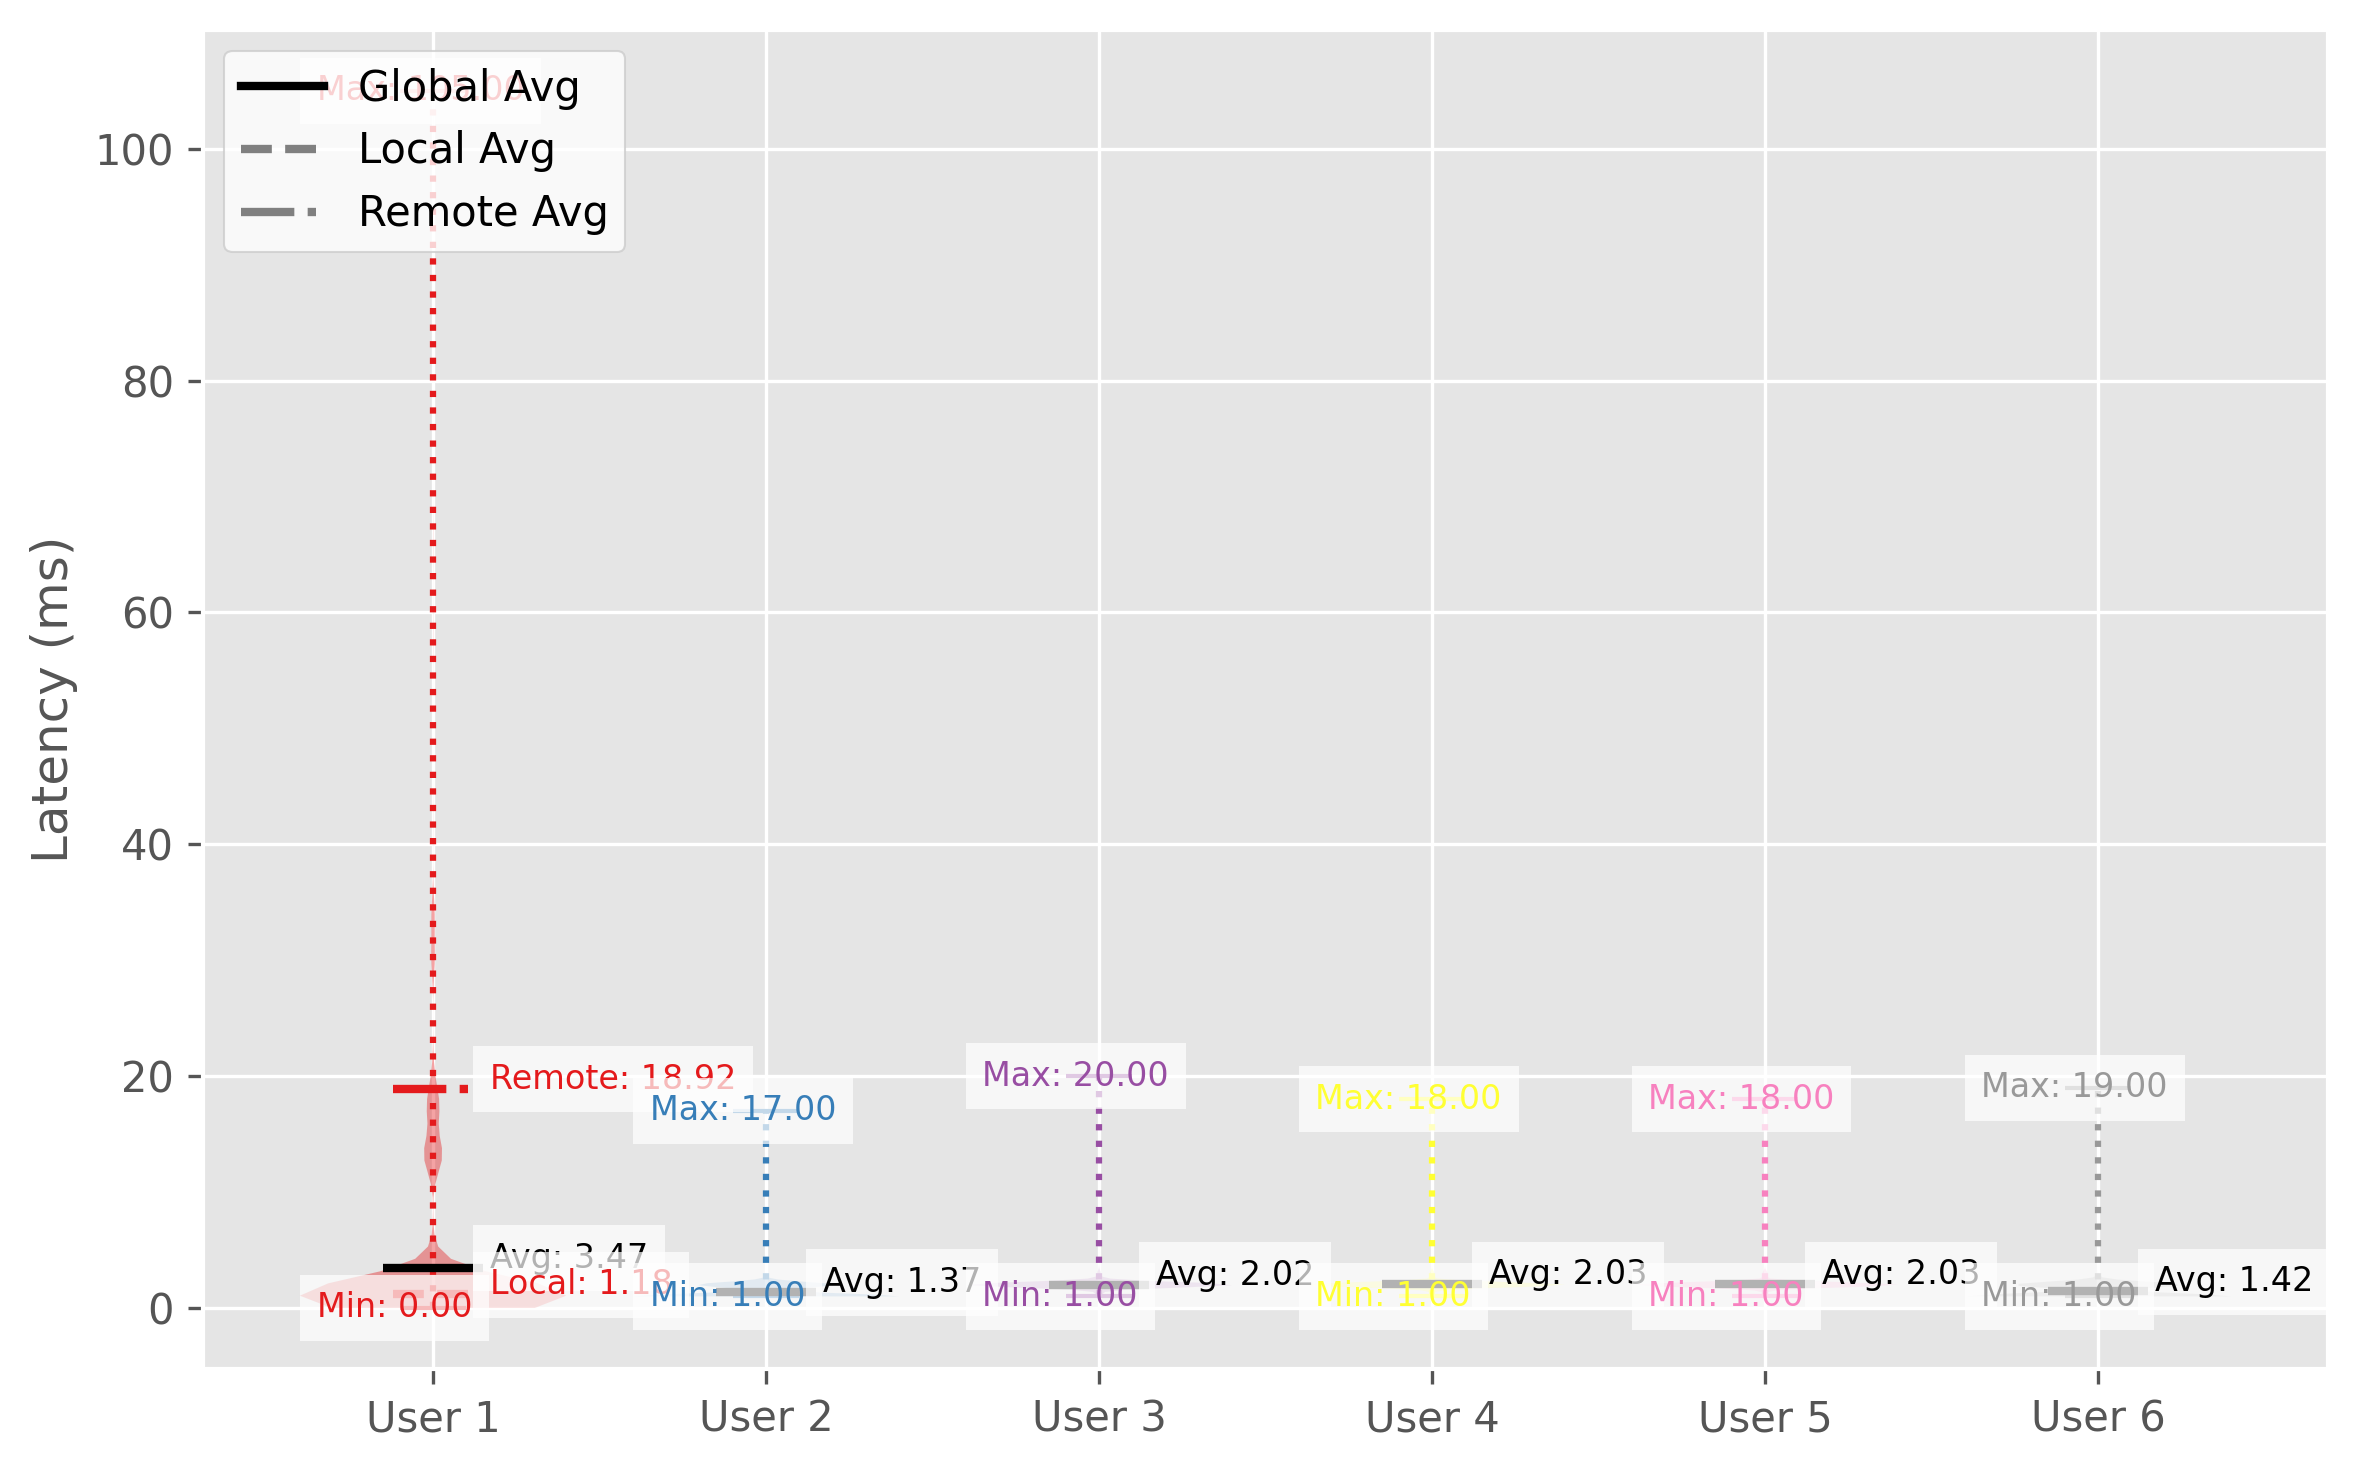
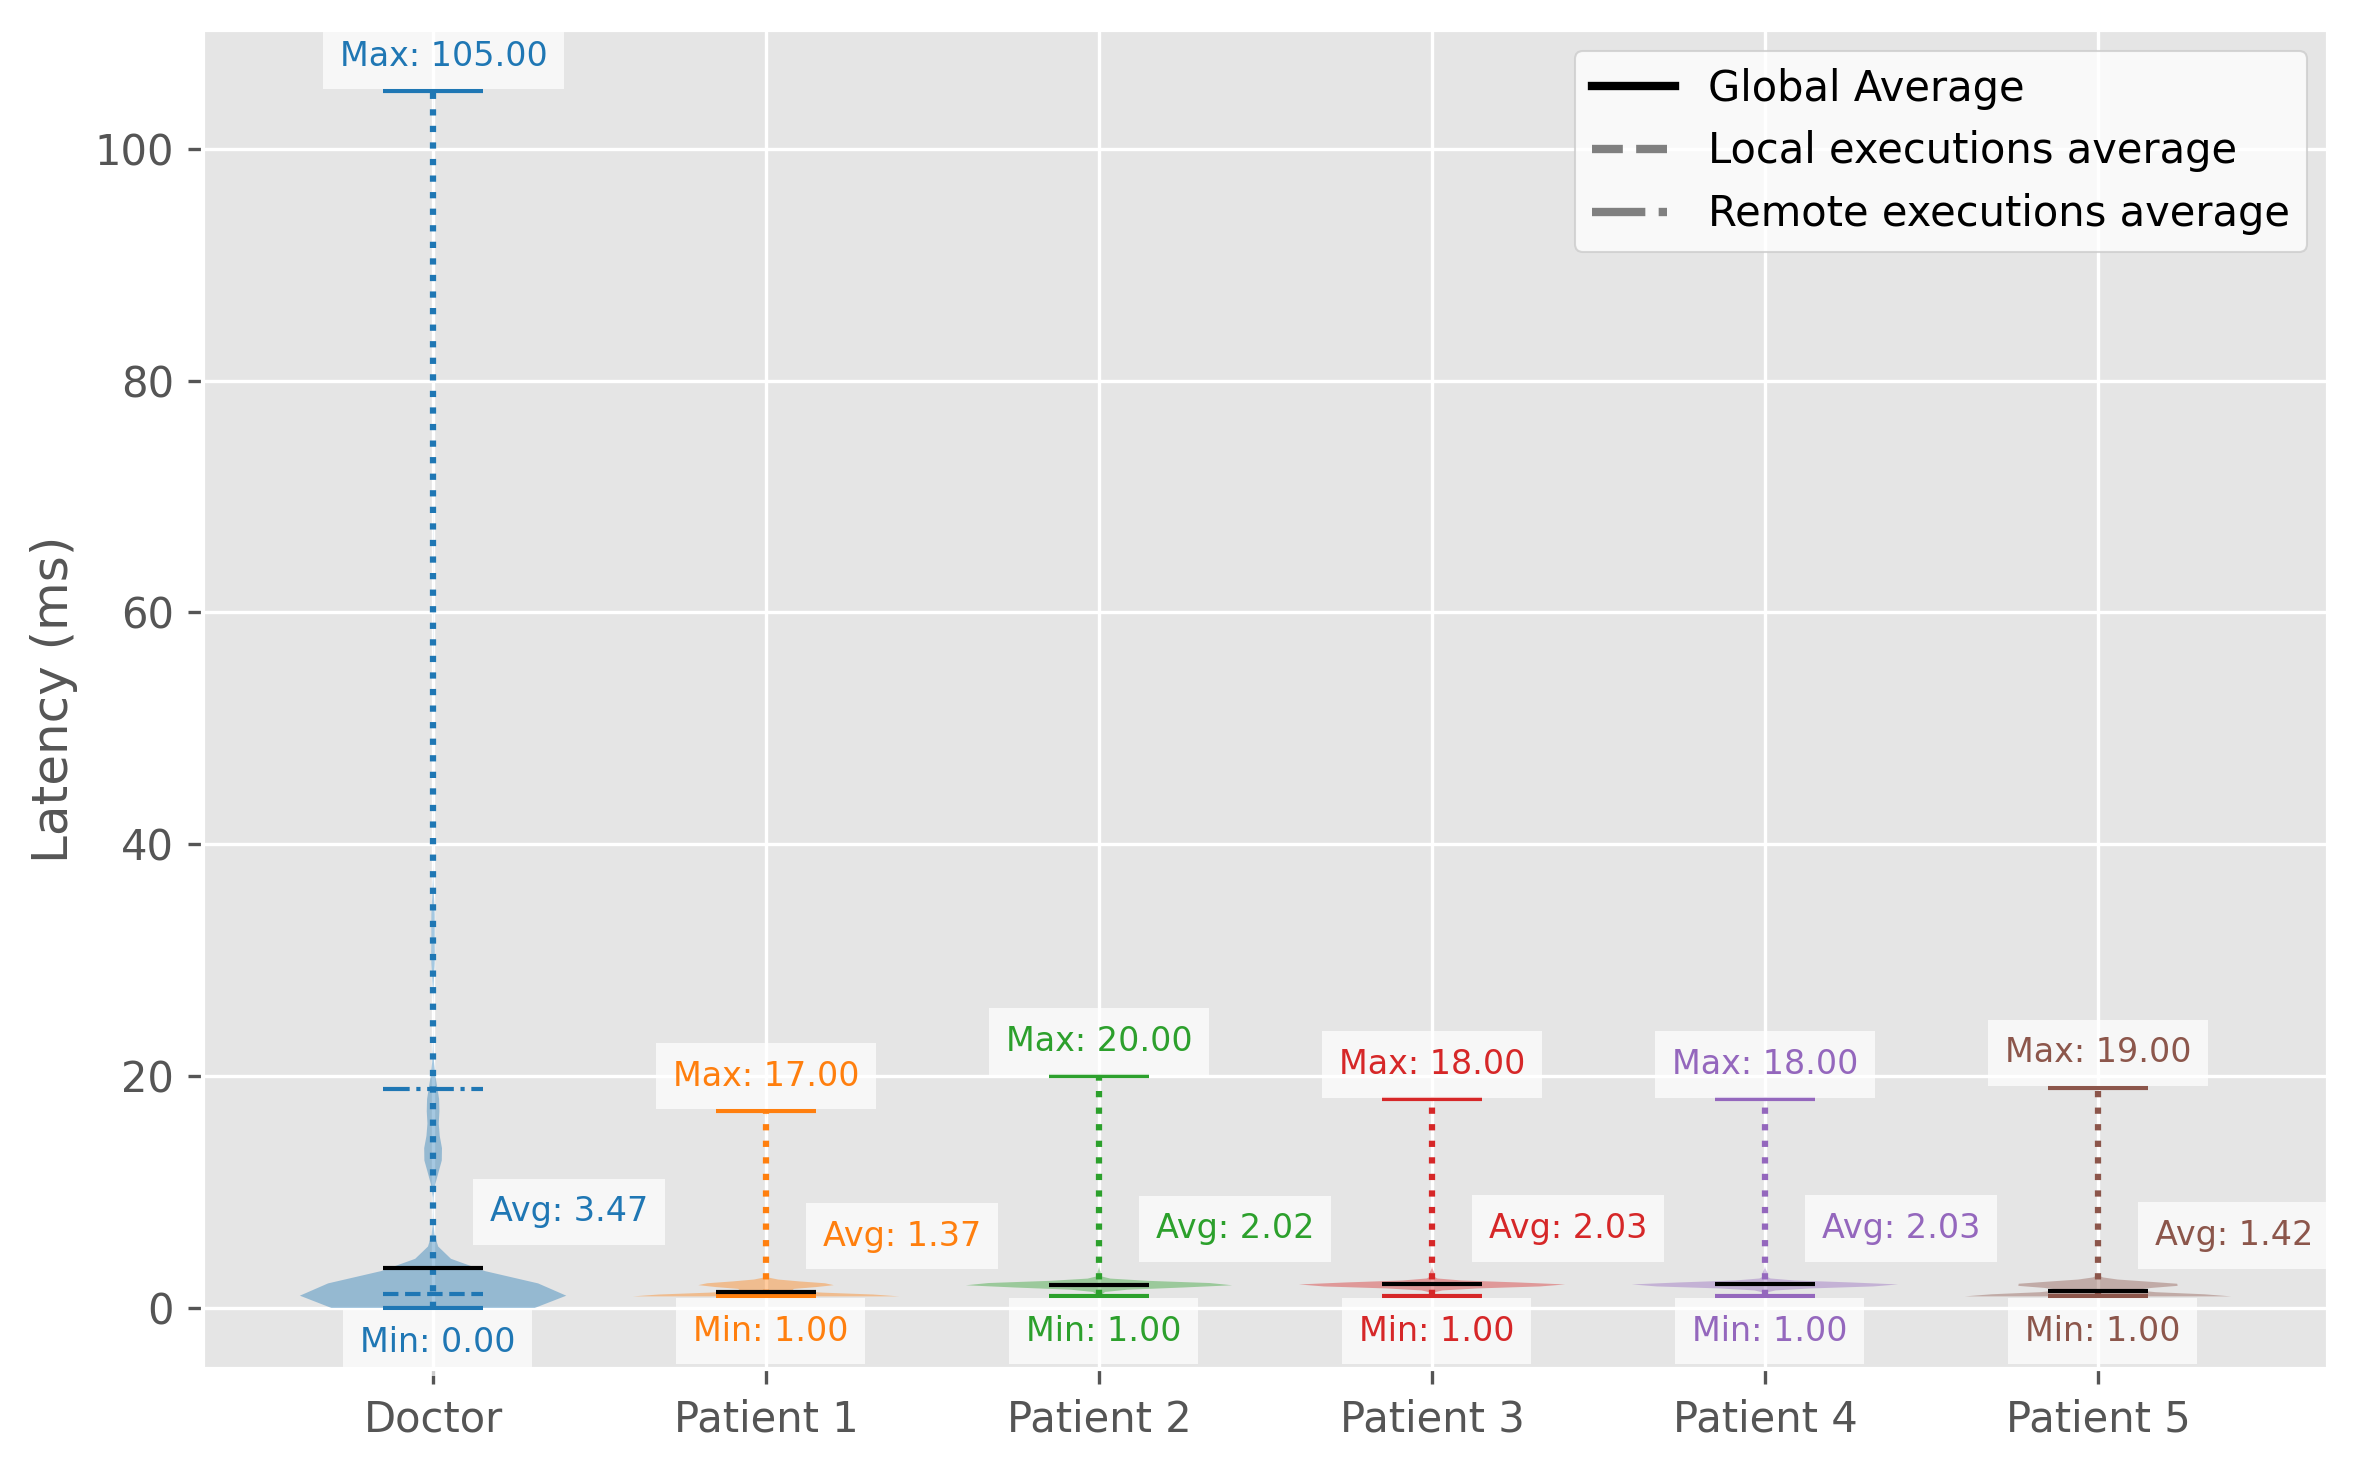
Update latency violin

diff --git a/ermes_benchmark/convergence_test/code/plots/latency.py b/ermes_benchmark/convergence_test/code/plots/latency.py
@@ -20,7 +20,8 @@ def local_vs_remote_latency(dfs):
         total_width = 0.8
         single_bar_width = total_width / 1
 
-        colors = plt.cm.Set1(np.linspace(0, 1, max(n_files, 3)))
+        cmap = plt.get_cmap('tab10')
+        colors = [cmap(i % 10) for i in range(n_files)]
         file_labels = [f'User {i + 1}' for i in range(n_files)]
 
         all_durations = []
@@ -174,7 +175,8 @@ def local_vs_remote_latency_violin_old(dfs):
 
     n_files = len(dfs)
     x = np.arange(n_files)
-    colors = plt.cm.Set1(np.linspace(0, 1, max(n_files, 3)))
+    cmap = plt.get_cmap('tab10')
+    colors = [cmap(i % 10) for i in range(n_files)]
     file_labels = [f'User {i + 1}' for i in range(n_files)]
 
     data_list = []
@@ -271,8 +273,12 @@ def local_vs_remote_latency_violin(dfs, scenario):
 
     n_files = len(dfs)
     x = np.arange(n_files)
-    colors = plt.cm.Set1(np.linspace(0, 1, max(n_files, 3)))
+    cmap = plt.get_cmap('tab10')
+    colors = [cmap(i % 10) for i in range(n_files)]
+
     file_labels = [f'User {i + 1}' for i in range(n_files)]
+    if scenario == "bottom_up":
+        file_labels = ["Doctor", "Patient 1", "Patient 2", "Patient 3", "Patient 4", "Patient 5"]
     if scenario == "full_traversal":
         file_labels = ["Patient", "Doctor"]
 
@@ -307,47 +313,82 @@ def local_vs_remote_latency_violin(dfs, scenario):
         b.set_facecolor(colors[i])
         b.set_alpha(0.4)
 
-    for i, stat in enumerate(stats):
-        current_x = x[i]
-        user_color = colors[i]
+    if len(stats) == 2:
+        for i, stat in enumerate(stats):
+            current_x = x[i]
+            user_color = colors[i]
 
-        # Min e Max
-        ax.vlines(current_x, stat['min'], stat['max'], color=user_color, linestyle=':', linewidth=1.5)
-        ax.hlines(stat['min'], current_x - 0.1, current_x + 0.1, color=user_color, linewidth=1)
-        ax.hlines(stat['max'], current_x - 0.1, current_x + 0.1, color=user_color, linewidth=1)
-        ax.text(current_x - 0.35, stat['min'], f'Min: {stat["min"]:.2f}',
-                ha='left', va='center', fontsize=8, color=user_color,
-                bbox=dict(facecolor='white', alpha=0.7, edgecolor='none'))
-        ax.text(current_x - 0.35, stat['max'], f'Max: {stat["max"]:.2f}',
-                ha='left', va='center', fontsize=8, color=user_color,
-                bbox=dict(facecolor='white', alpha=0.7, edgecolor='none'))
+            # Min e Max
+            ax.vlines(current_x, stat['min'], stat['max'], color=user_color, linestyle=':', linewidth=1.5)
+            ax.hlines(stat['min'], current_x - 0.1, current_x + 0.1, color=user_color, linewidth=1)
+            ax.hlines(stat['max'], current_x - 0.1, current_x + 0.1, color=user_color, linewidth=1)
+            ax.text(current_x - 0.35, stat['min'], f'Min: {stat["min"]:.2f}',
+                    ha='left', va='center', fontsize=8, color=user_color,
+                    bbox=dict(facecolor='white', alpha=0.7, edgecolor='none'))
+            ax.text(current_x - 0.35, stat['max'], f'Max: {stat["max"]:.2f}',
+                    ha='left', va='center', fontsize=8, color=user_color,
+                    bbox=dict(facecolor='white', alpha=0.7, edgecolor='none'))
 
-        # Avg totale
-        ax.hlines(stat['avg'], current_x - 0.15, current_x + 0.15, color='black', linewidth=2)
-        ax.text(current_x + 0.17, stat['avg'], f'Avg: {stat["avg"]:.2f}', fontsize=8, color='black',
-                bbox=dict(facecolor='white', alpha=0.7, edgecolor='none'))
+            # Avg totale
+            ax.hlines(stat['avg'], current_x - 0.15, current_x + 0.15, color='black', linewidth=2)
+            ax.text(current_x + 0.17, stat['avg'], f'Avg: {stat["avg"]:.2f}', fontsize=8, color=user_color,
+                    bbox=dict(facecolor='white', alpha=0.7, edgecolor='none'))
 
-        # Avg Local
-        if not np.isnan(stat['avg_local']) and int(stat['avg_local']) != int(stat['avg']):
-            ax.hlines(stat['avg_local'], current_x - 0.12, current_x + 0.12,
-                      color=user_color, linestyle='--', linewidth=2)
-            ax.text(current_x + 0.17, stat['avg_local'], f'Local: {stat["avg_local"]:.2f}',
-                    fontsize=8, color=user_color, bbox=dict(facecolor='white', alpha=0.7, edgecolor='none'))
+            # Avg Local
+            if not np.isnan(stat['avg_local']) and int(stat['avg_local']) != int(stat['avg']):
+                ax.hlines(stat['avg_local'], current_x - 0.12, current_x + 0.12,
+                          color=user_color, linestyle='--', linewidth=2)
+                ax.text(current_x + 0.17, stat['avg_local'], f'Local: {stat["avg_local"]:.2f}',
+                        fontsize=8, color=user_color, bbox=dict(facecolor='white', alpha=0.7, edgecolor='none'))
 
-        # Avg Remote
-        if not np.isnan(stat['avg_remote']) and int(stat['avg_remote']) != int(stat['avg']):
-            ax.hlines(stat['avg_remote'], current_x - 0.12, current_x + 0.12,
-                      color=user_color, linestyle='-.', linewidth=2)
-            ax.text(current_x + 0.17, stat['avg_remote'], f'Remote: {stat["avg_remote"]:.2f}',
-                    fontsize=8, color=user_color, bbox=dict(facecolor='white', alpha=0.7, edgecolor='none'))
+            # Avg Remote
+            if not np.isnan(stat['avg_remote']) and int(stat['avg_remote']) != int(stat['avg']):
+                ax.hlines(stat['avg_remote'], current_x - 0.12, current_x + 0.12,
+                          color=user_color, linestyle='-.', linewidth=2)
+                ax.text(current_x + 0.17, stat['avg_remote'], f'Remote: {stat["avg_remote"]:.2f}',
+                        fontsize=8, color=user_color, bbox=dict(facecolor='white', alpha=0.7, edgecolor='none'))
+    else:
+        for i, stat in enumerate(stats):
+            current_x = x[i]
+            user_color = colors[i]
+
+            # Min e Max
+            ax.vlines(current_x, stat['min'], stat['max'], color=user_color, linestyle=':', linewidth=1.5)
+            ax.hlines(stat['min'], current_x - 0.15, current_x + 0.15, color=user_color, linewidth=1)
+            ax.hlines(stat['max'], current_x - 0.15, current_x + 0.15, color=user_color, linewidth=1)
+            ax.text(current_x - 0.22, stat['min'] - 3, f'Min: {stat["min"]:.2f}',
+                    ha='left', va='center', fontsize=8, color=user_color,
+                    bbox=dict(facecolor='white', alpha=0.7, edgecolor='none'))
+            ax.text(current_x - 0.28, stat['max'] + 3, f'Max: {stat["max"]:.2f}',
+                    ha='left', va='center', fontsize=8, color=user_color,
+                    bbox=dict(facecolor='white', alpha=0.7, edgecolor='none'))
+
+            # Avg totale
+            ax.hlines(stat['avg'], current_x - 0.15, current_x + 0.15, color='black', linewidth=1)
+            ax.text(current_x + 0.17, stat['avg'] + 4, f'Avg: {stat["avg"]:.2f}', fontsize=8, color=user_color,
+                    bbox=dict(facecolor='white', alpha=0.7, edgecolor='none'))
+
+            # Avg Local
+            if not np.isnan(stat['avg_local']) and int(stat['avg_local']) != int(stat['avg']):
+                ax.hlines(stat['avg_local'], current_x - 0.15, current_x + 0.15,
+                          color=user_color, linestyle='--', linewidth=1)
+                #ax.text(current_x - 0.7, stat['avg_local'], f'Local: {stat["avg_local"]:.2f}',
+                #        fontsize=7, color=user_color, bbox=dict(facecolor='white', alpha=0.7, edgecolor='none'))
+
+            # Avg Remote
+            if not np.isnan(stat['avg_remote']) and int(stat['avg_remote']) != int(stat['avg']):
+                ax.hlines(stat['avg_remote'], current_x - 0.15, current_x + 0.15,
+                          color=user_color, linestyle='-.', linewidth=1)
+                #ax.text(current_x - 0.7, stat['avg_remote'], f'Remote: {stat["avg_remote"]:.2f}',
+                #        fontsize=7, color=user_color, bbox=dict(facecolor='white', alpha=0.7, edgecolor='none'))
 
     legend_elements = [
-        Line2D([0], [0], color='black', lw=2, label='Global Avg'),
-        Line2D([0], [0], color='grey', lw=2, linestyle='--', label='Local Avg'),
-        Line2D([0], [0], color='grey', lw=2, linestyle='-.', label='Remote Avg'),
+        Line2D([0], [0], color='black', lw=2, label='Global Average'),
+        Line2D([0], [0], color='grey', lw=2, linestyle='--', label='Local executions average'),
+        Line2D([0], [0], color='grey', lw=2, linestyle='-.', label='Remote executions average'),
         # Line2D([0], [0], color='grey', lw=1.5, linestyle=':', label='Min/Max (Vertical Line)'),
     ]
-    ax.legend(handles=legend_elements, loc='upper left', facecolor='white')
+    ax.legend(handles=legend_elements, loc='best', facecolor='white')
 
     # ax.set_title('User Latency Analysis: Violin Plot con Distribuzione e Valori Statistici')
     # ax.set_xlabel('User')

diff --git a/ermes_benchmark/convergence_test/code/main.py b/ermes_benchmark/convergence_test/code/main.py
@@ -195,7 +195,7 @@ def main():
     print("Generating latency violin plot...")
     latency.local_vs_remote_latency_violin(full_dfs, args.subfolder)
     plt.savefig(f'{output_dir}/local_vs_remote_latency_violin.png', dpi=300, bbox_inches='tight')
-    plt.savefig(f'{output_dir}/pdf/local_vs_remote_latency_violin.pdf')
+    plt.savefig(f'{output_dir}/pdf/local_vs_remote_latency_violin.pdf', bbox_inches='tight')
     plt.close()
     latency.local_vs_remote_latency_violin_old(full_dfs)
     plt.savefig(f'{output_dir}/local_vs_remote_latency_violin_old.png', dpi=300, bbox_inches='tight')
